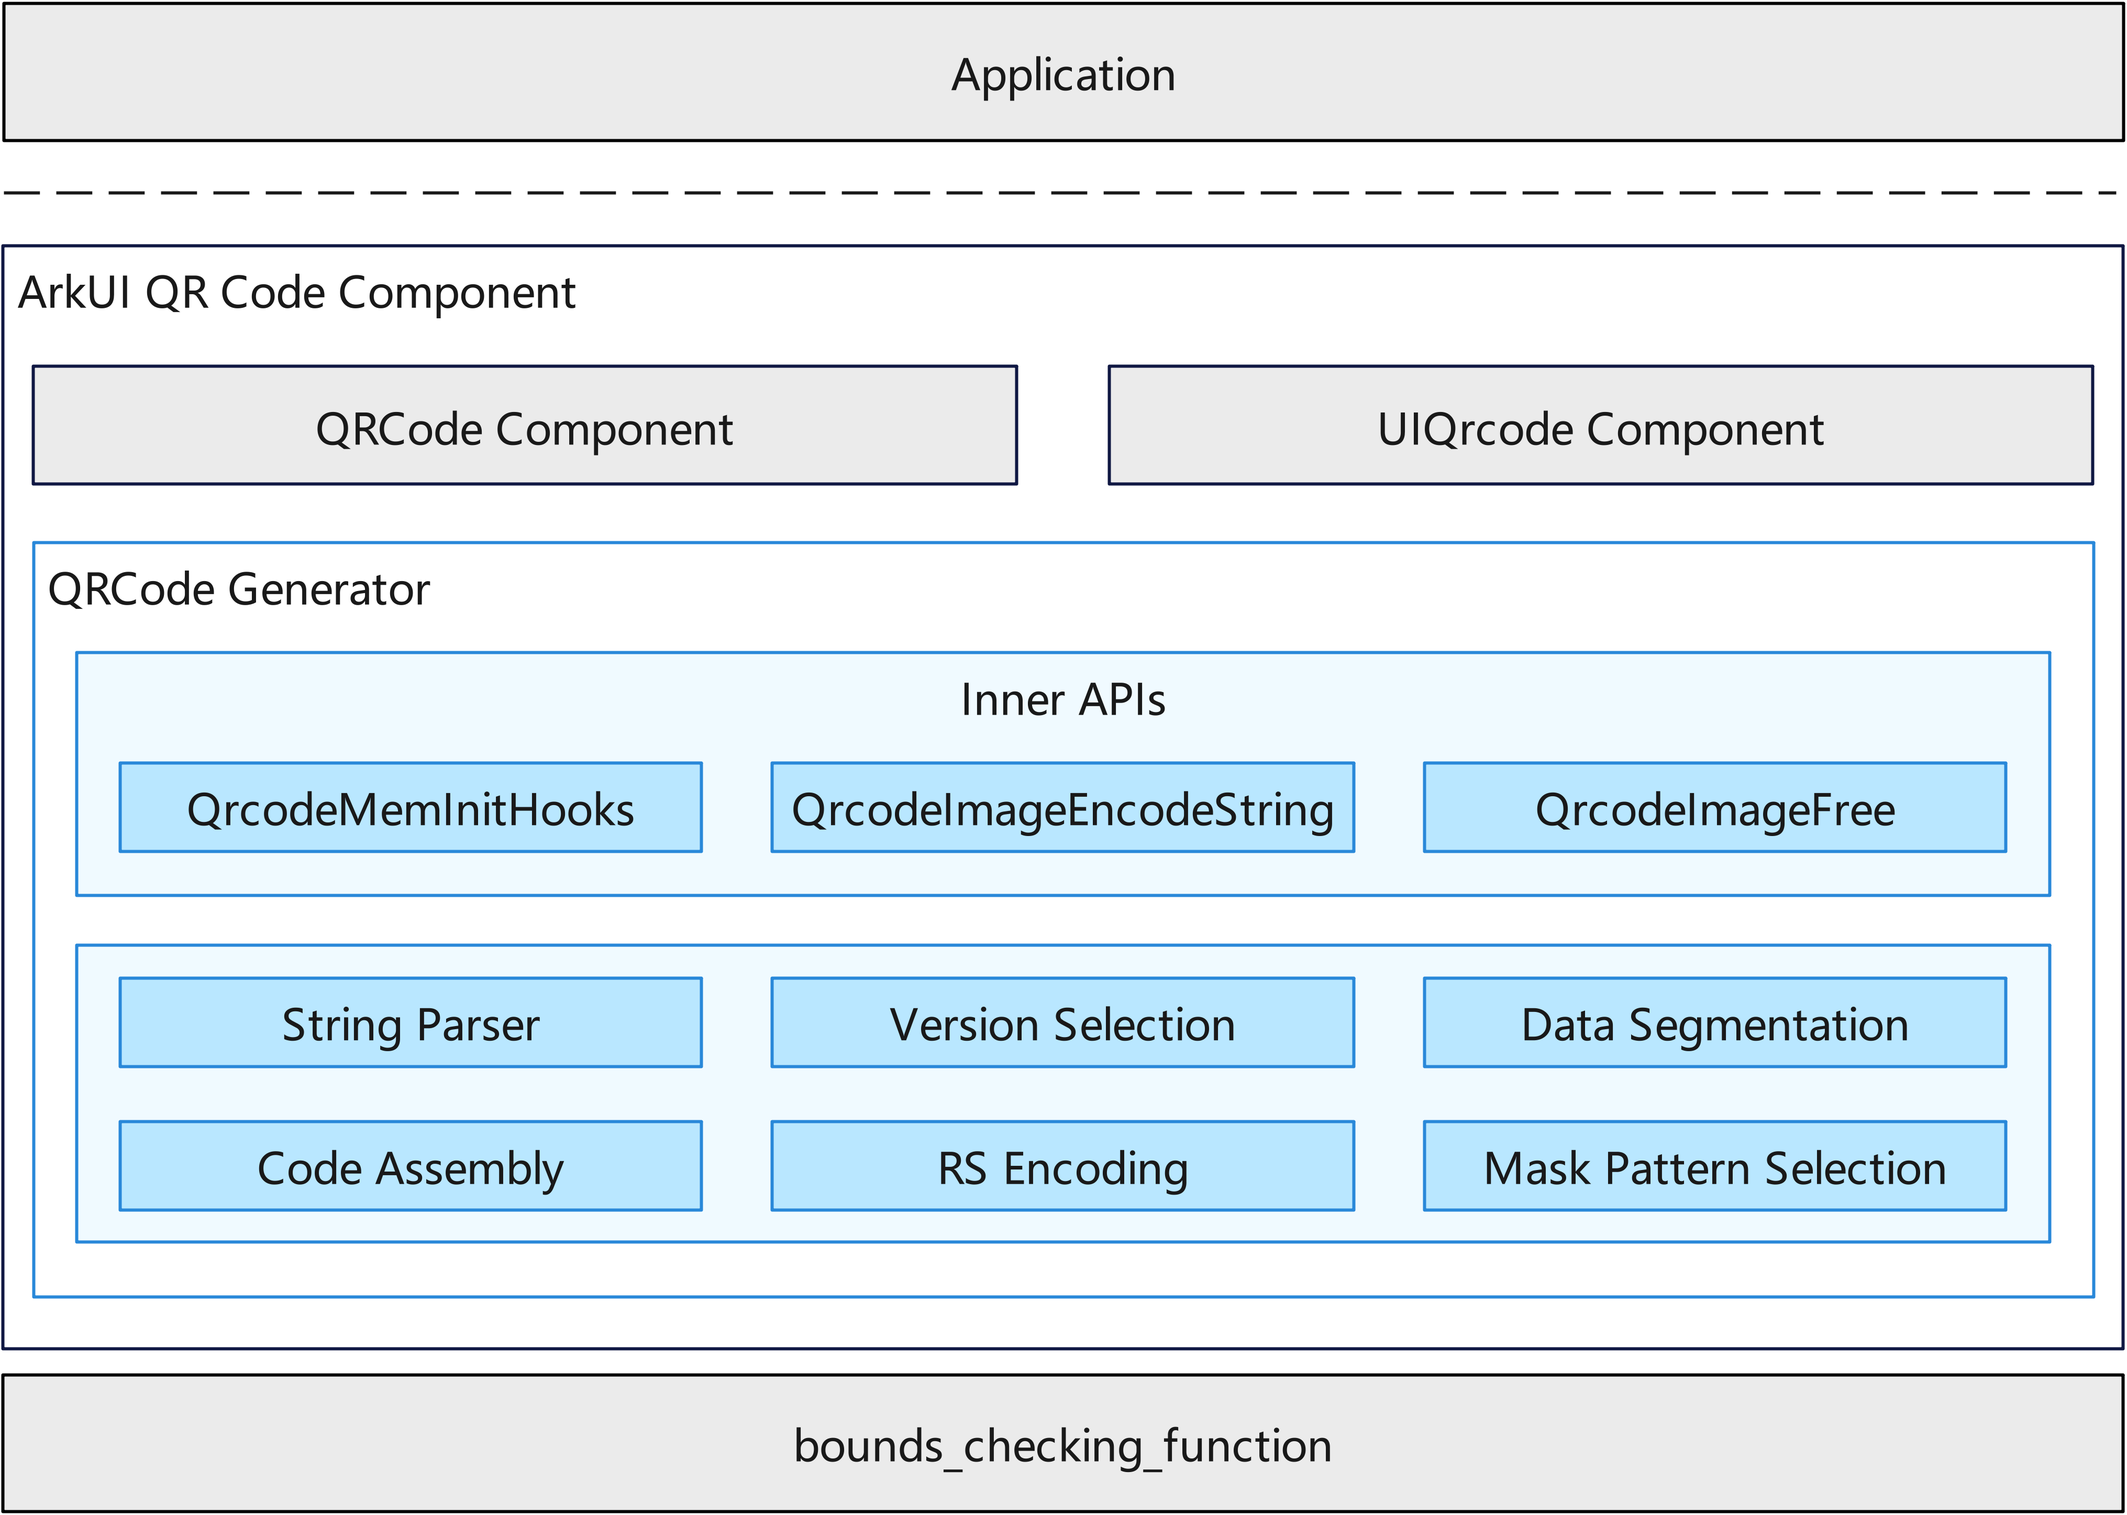
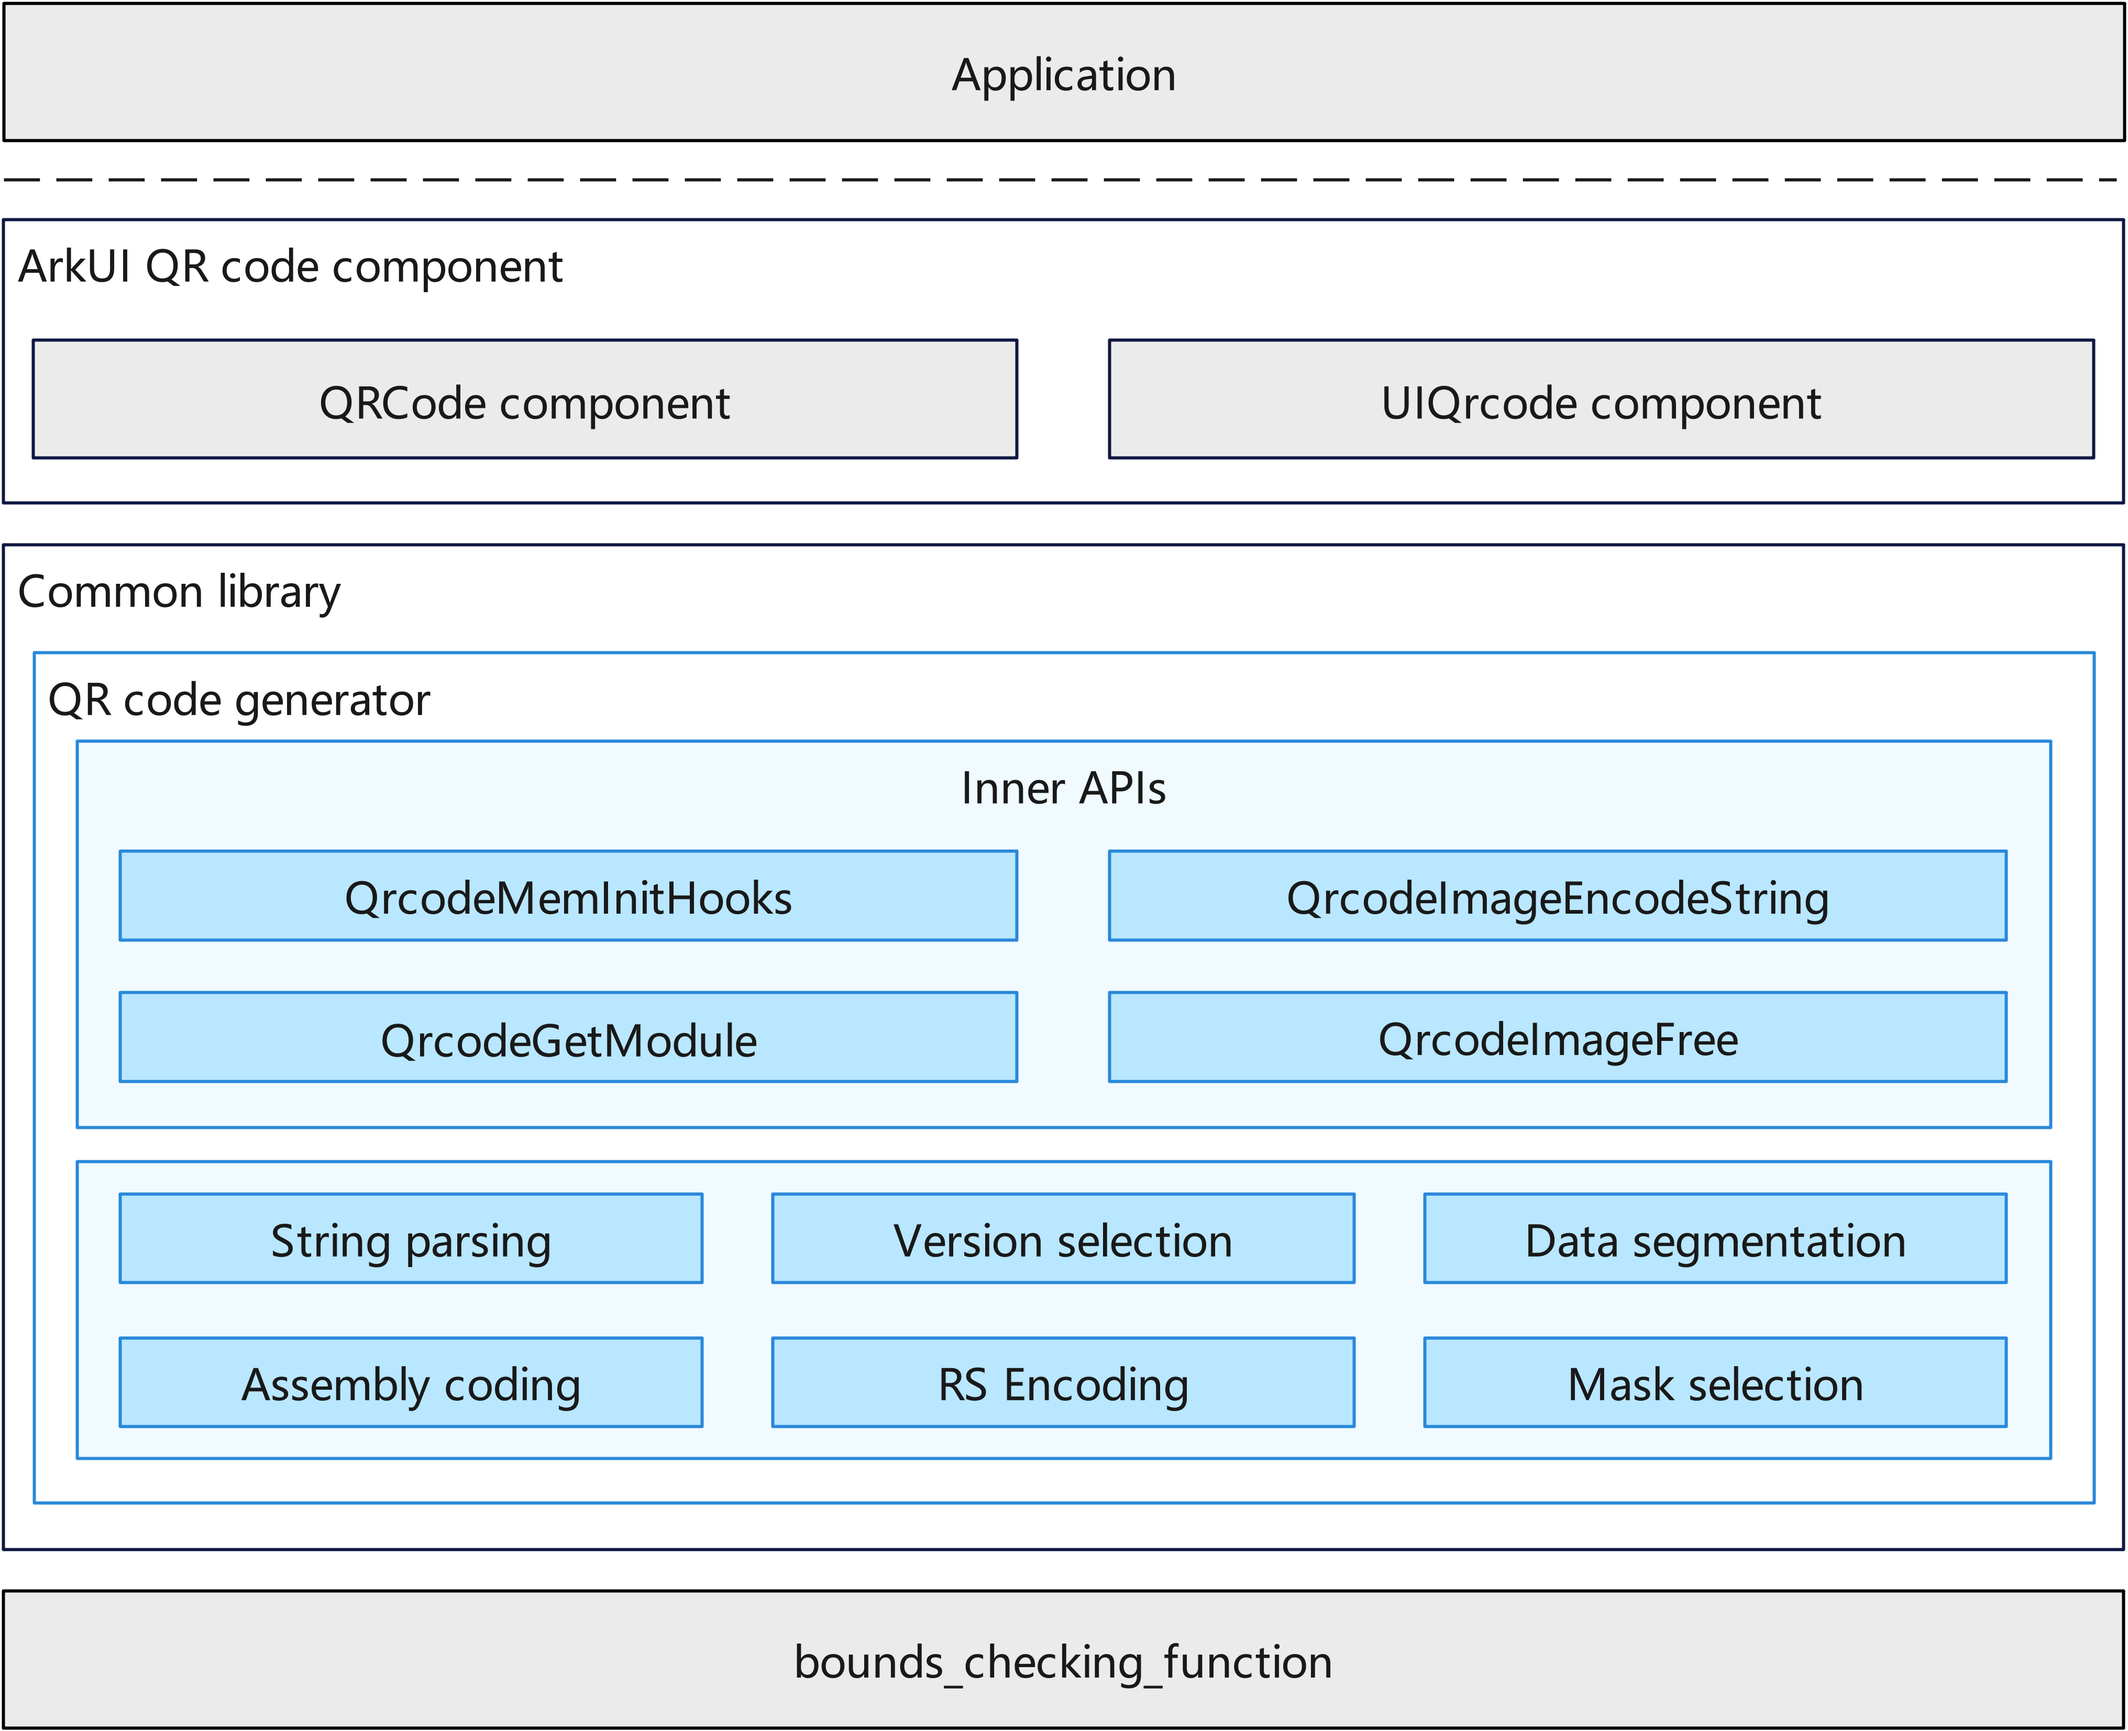
增加API接口

Changed region(s): [[0.0, 0.1244, 1.0, 1.0], [0.0, 0.0311, 1.0, 0.0933]]

diff --git a/frameworks/qrcode_generator.cpp b/frameworks/qrcode_generator.cpp
@@ -424,3 +424,22 @@ QrcodeImage *QrcodeImageEncodeString(const char *text, QRCODE_ECC qrEcc)
 
     return qrImg;
 }
+
+bool QrcodeGetModule(const QrcodeImage *qrCode, int32_t xPos, int32_t yPos)
+{
+    if (qrCode == nullptr) {
+        return false;
+    }
+
+    uint32_t qrWidth = qrCode->width;
+    if ((qrWidth == 0) || (qrCode->data == nullptr)) {
+        return false;
+    }
+
+    if ((xPos < 0) || (xPos >= qrWidth) || (yPos < 0) || (yPos >= qrWidth)) {
+        return false;
+    }
+
+    uint8_t* sourceData = qrCode->data;
+    return (*(sourceData + yPos * qrWidth + xPos) & 1);
+}

diff --git a/interfaces/kits/qrcode_generator.h b/interfaces/kits/qrcode_generator.h
@@ -43,6 +43,8 @@ typedef struct {
 
 QrcodeImage *QrcodeImageEncodeString(const char *text, QRCODE_ECC qrEcc);
 
+bool QrcodeGetModule(const QrcodeImage *qrCode, int32_t xPos, int32_t yPos);
+
 void QrcodeImageFree(QrcodeImage *qrImage);
 
 void QrcodeMemInitHooks(const QrcodeMemHooks *hooks);

diff --git a/README.md b/README.md
@@ -15,7 +15,7 @@ The QR code generator provides the QR code generation capability for OpenHarmony
 
 ![](figures/qrcode_generator.png "Architecture of the QR code generator")
 
--   **External API layer**: Provides internal APIs for generating QR codes, including image encoding and memory management.
+-   **External API layer**: Provides internal APIs for generating QR codes, including image encoding and memory management and returns the color of the module (pixel) at the given coordinates.
 
 -   **Data encoding**: Parses and encodes the input character code stream information, including string parsing, version selection, data segmentation, assembling and encoding, RS coding, and mask selection.
 
@@ -103,29 +103,35 @@ typedef struct {
 
 ### API Description
 
-<table><thead align="left"><tr id="row1111111111111"><th class="cellrowborder" valign="top" width="50.22%" id="mcps1.1.3.1.1"><p id="p1111111111111"><a name="p1111111111111"></a><a name="p1111111111111"></a>Name</p>
+<table><thead align="left"><tr id="row1"><th class="cellrowborder" valign="top" width="50.22%" id="mcps1.1.3.1.1"><p id="p1"><a name="p1"></a><a name="p1"></a>Name</p>
 </th>
-<th class="cellrowborder" valign="top" width="49.78%" id="mcps1.1.3.1.2"><p id="p2222222222222"><a name="p2222222222222"></a><a name="p2222222222222"></a>Description</p>
+<th class="cellrowborder" valign="top" width="49.78%" id="mcps1.1.3.1.2"><p id="p2"><a name="p2"></a><a name="p2"></a>Description</p>
 </th>
 </tr>
 </thead>
-<tbody><tr id="row2222222222222"><td class="cellrowborder" valign="top" width="50.22%" headers="mcps1.1.3.1.1 "><p id="p3333333333333"><a name="p3333333333333"></a><a name="p3333333333333"></a>QrcodeImage *QrcodeImageEncodeString(const char *text, QRCODE_ECC qrEcc)</p>
+<tbody><tr id="row2"><td class="cellrowborder" valign="top" width="50.22%" headers="mcps1.1.3.1.1 "><p id="p3"><a name="p3"></a><a name="p3"></a>QrcodeImage *QrcodeImageEncodeString(const char *text, QRCODE_ECC qrEcc)</p>
 </td>
-<td class="cellrowborder" valign="top" width="49.78%" headers="mcps1.1.3.1.2 "><p id="p4444444444444"><a name="p4444444444444"></a><a name="p4444444444444"></a>Encodes the string code stream and outputs the QR code data.</p>
-</td>
-</tr>
-<tr id="row3333333333333"><td class="cellrowborder" valign="top" width="50.22%" headers="mcps1.1.3.1.1 "><p id="p5555555555555"><a name="p5555555555555"></a><a name="p5555555555555"></a>void QrcodeImageFree(QrcodeImage *qrImage)</p>
-</td>
-<td class="cellrowborder" valign="top" width="49.78%" headers="mcps1.1.3.1.2 "><p id="p6666666666666"><a name="p6666666666666"></a><a name="p6666666666666"></a>Releases the memory of the QR code data.</p>
+<td class="cellrowborder" valign="top" width="49.78%" headers="mcps1.1.3.1.2 "><p id="p4"><a name="p4"></a><a name="p4"></a>Encodes the string code stream and outputs the QR code data.</p>
 </td>
 </tr>
-<tr id="row4444444444444"><td class="cellrowborder" valign="top" width="50.22%" headers="mcps1.1.3.1.1 "><p id="p7777777777777"><a name="p7777777777777"></a><a name="p7777777777777"></a>void QrcodeMemInitHooks(const QrcodeMemHooks *hooks)</p>
+<tr id="row3"><td class="cellrowborder" valign="top" width="50.22%" headers="mcps1.1.3.1.1 "><p id="p5"><a name="p5"></a><a name="p5"></a>bool QrcodeGetModule(const QrcodeImage *qrCode, int32_t xPos, int32_t yPos)</p>
 </td>
-<td class="cellrowborder" valign="top" width="49.78%" headers="mcps1.1.3.1.2 "><p id="p8888888888888"><a name="p8888888888888"></a><a name="p8888888888888"></a>Initializes the custom memory allocation hook.</p>
+<td class="cellrowborder" valign="top" width="49.78%" headers="mcps1.1.3.1.2 "><p id="p6"><a name="p6"></a><a name="p6"></a>Returns the color of the module (pixel) at the given coordinates, which is false, for light or true for dark. The top left corner has the coordinates (x=0, y=0).If the given coordinates are out of bounds, then false (light) is returned.</p>
+</td>
+</tr>
+<tr id="row4"><td class="cellrowborder" valign="top" width="50.22%" headers="mcps1.1.3.1.1 "><p id="p7"><a name="p7"></a><a name="p7"></a>void QrcodeImageFree(QrcodeImage *qrImage)</p>
+</td>
+<td class="cellrowborder" valign="top" width="49.78%" headers="mcps1.1.3.1.2 "><p id="p8"><a name="p8"></a><a name="p8"></a>Releases the memory of the QR code data.</p>
+</td>
+</tr>
+<tr id="row5"><td class="cellrowborder" valign="top" width="50.22%" headers="mcps1.1.3.1.1 "><p id="p9"><a name="p9"></a><a name="p9"></a>void QrcodeMemInitHooks(const QrcodeMemHooks *hooks)</p>
+</td>
+<td class="cellrowborder" valign="top" width="49.78%" headers="mcps1.1.3.1.2 "><p id="p10"><a name="p10"></a><a name="p10"></a>Initializes the custom memory allocation hook.</p>
 </td>
 </tr>
 </tbody>
 </table>
+
 #### Error Correction Level Description
 
 <table><thead align="left"><tr id="row5555555555555"><th class="cellrowborder" valign="top" width="20%" id="mcps1.1.3.2.1"><p id="p1111111111112"><a name="p1111111111112"></a><a name="p1111111111112"></a>Level</p>

diff --git a/README_zh.md b/README_zh.md
@@ -15,7 +15,7 @@
 
 ![](figures/zh-cn_qrcode_generator.png "二维码生成器架构图")
 
--   **对外接口层：** 提供二维码生成的内部API接口，包括图像编码和内存管理。
+-   **对外接口层：** 提供二维码生成的内部API接口，包括图像编码、内存管理和返回给定坐标的颜色（浅色为false、深色为true）。
 
 -   **数据编码：** 对输入字符码流信息进行解析编码，包括字符串解析、版本选择、数据分段、组装编码、RS纠错编码、掩码选择模块。
 
@@ -103,29 +103,35 @@ typedef struct {
 
 ### 接口说明
 
-<table><thead align="left"><tr id="row1111111111111"><th class="cellrowborder" valign="top" width="50.22%" id="mcps1.1.3.1.1"><p id="p1111111111111"><a name="p1111111111111"></a><a name="p1111111111111"></a>接口名</p>
+<table><thead align="left"><tr id="row1"><th class="cellrowborder" valign="top" width="50.22%" id="mcps1.1.3.1.1"><p id="p1"><a name="p1"></a><a name="p1"></a>接口名</p>
 </th>
-<th class="cellrowborder" valign="top" width="49.78%" id="mcps1.1.3.1.2"><p id="p2222222222222"><a name="p2222222222222"></a><a name="p2222222222222"></a>说明</p>
+<th class="cellrowborder" valign="top" width="49.78%" id="mcps1.1.3.1.2"><p id="p2"><a name="p2"></a><a name="p2"></a>说明</p>
 </th>
 </tr>
 </thead>
-<tbody><tr id="row2222222222222"><td class="cellrowborder" valign="top" width="50.22%" headers="mcps1.1.3.1.1 "><p id="p3333333333333"><a name="p3333333333333"></a><a name="p3333333333333"></a>QrcodeImage *QrcodeImageEncodeString(const char *text, QRCODE_ECC qrEcc)</p>
+<tbody><tr id="row2"><td class="cellrowborder" valign="top" width="50.22%" headers="mcps1.1.3.1.1 "><p id="p3"><a name="p3"></a><a name="p3"></a>QrcodeImage *QrcodeImageEncodeString(const char *text, QRCODE_ECC qrEcc)</p>
 </td>
-<td class="cellrowborder" valign="top" width="49.78%" headers="mcps1.1.3.1.2 "><p id="p4444444444444"><a name="p4444444444444"></a><a name="p4444444444444"></a>对字符串码流进行编码，输出二维码数据</p>
-</td>
-</tr>
-<tr id="row3333333333333"><td class="cellrowborder" valign="top" width="50.22%" headers="mcps1.1.3.1.1 "><p id="p5555555555555"><a name="p5555555555555"></a><a name="p5555555555555"></a>void QrcodeImageFree(QrcodeImage *qrImage)</p>
-</td>
-<td class="cellrowborder" valign="top" width="49.78%" headers="mcps1.1.3.1.2 "><p id="p6666666666666"><a name="p6666666666666"></a><a name="p6666666666666"></a>释放二维码数据内存</p>
+<td class="cellrowborder" valign="top" width="49.78%" headers="mcps1.1.3.1.2 "><p id="p4"><a name="p4"></a><a name="p4"></a>对字符串码流进行编码，输出二维码数据</p>
 </td>
 </tr>
-<tr id="row4444444444444"><td class="cellrowborder" valign="top" width="50.22%" headers="mcps1.1.3.1.1 "><p id="p7777777777777"><a name="p7777777777777"></a><a name="p7777777777777"></a>void QrcodeMemInitHooks(const QrcodeMemHooks *hooks)</p>
+<tr id="row3"><td class="cellrowborder" valign="top" width="50.22%" headers="mcps1.1.3.1.1 "><p id="p5"><a name="p5"></a><a name="p5"></a>bool QrcodeGetModule(const QrcodeImage *qrCode, int32_t xPos, int32_t yPos)</p>
 </td>
-<td class="cellrowborder" valign="top" width="49.78%" headers="mcps1.1.3.1.2 "><p id="p8888888888888"><a name="p8888888888888"></a><a name="p8888888888888"></a>初始化自定义内存分配钩子</p>
+<td class="cellrowborder" valign="top" width="49.78%" headers="mcps1.1.3.1.2 "><p id="p6"><a name="p6"></a><a name="p6"></a>返回给定坐标处模块（像素）的颜色，浅色为 false，深色为 true。左上角坐标为 (x=0, y=0)。如果给定坐标超出范围，则返回 false（浅色）</p>
+</td>
+</tr>
+<tr id="row4"><td class="cellrowborder" valign="top" width="50.22%" headers="mcps1.1.3.1.1 "><p id="p7"><a name="p7"></a><a name="p7"></a>void QrcodeImageFree(QrcodeImage *qrImage)</p>
+</td>
+<td class="cellrowborder" valign="top" width="49.78%" headers="mcps1.1.3.1.2 "><p id="p8"><a name="p8"></a><a name="p8"></a>释放二维码数据内存</p>
+</td>
+</tr>
+<tr id="row5"><td class="cellrowborder" valign="top" width="50.22%" headers="mcps1.1.3.1.1 "><p id="p9"><a name="p9"></a><a name="p9"></a>void QrcodeMemInitHooks(const QrcodeMemHooks *hooks)</p>
+</td>
+<td class="cellrowborder" valign="top" width="49.78%" headers="mcps1.1.3.1.2 "><p id="p10"><a name="p10"></a><a name="p10"></a>初始化自定义内存分配钩子</p>
 </td>
 </tr>
 </tbody>
 </table>
+
 #### 纠错等级说明
 
 <table><thead align="left"><tr id="row5555555555555"><th class="cellrowborder" valign="top" width="20%" id="mcps1.1.3.2.1"><p id="p1111111111112"><a name="p1111111111112"></a><a name="p1111111111112"></a>等级</p>
